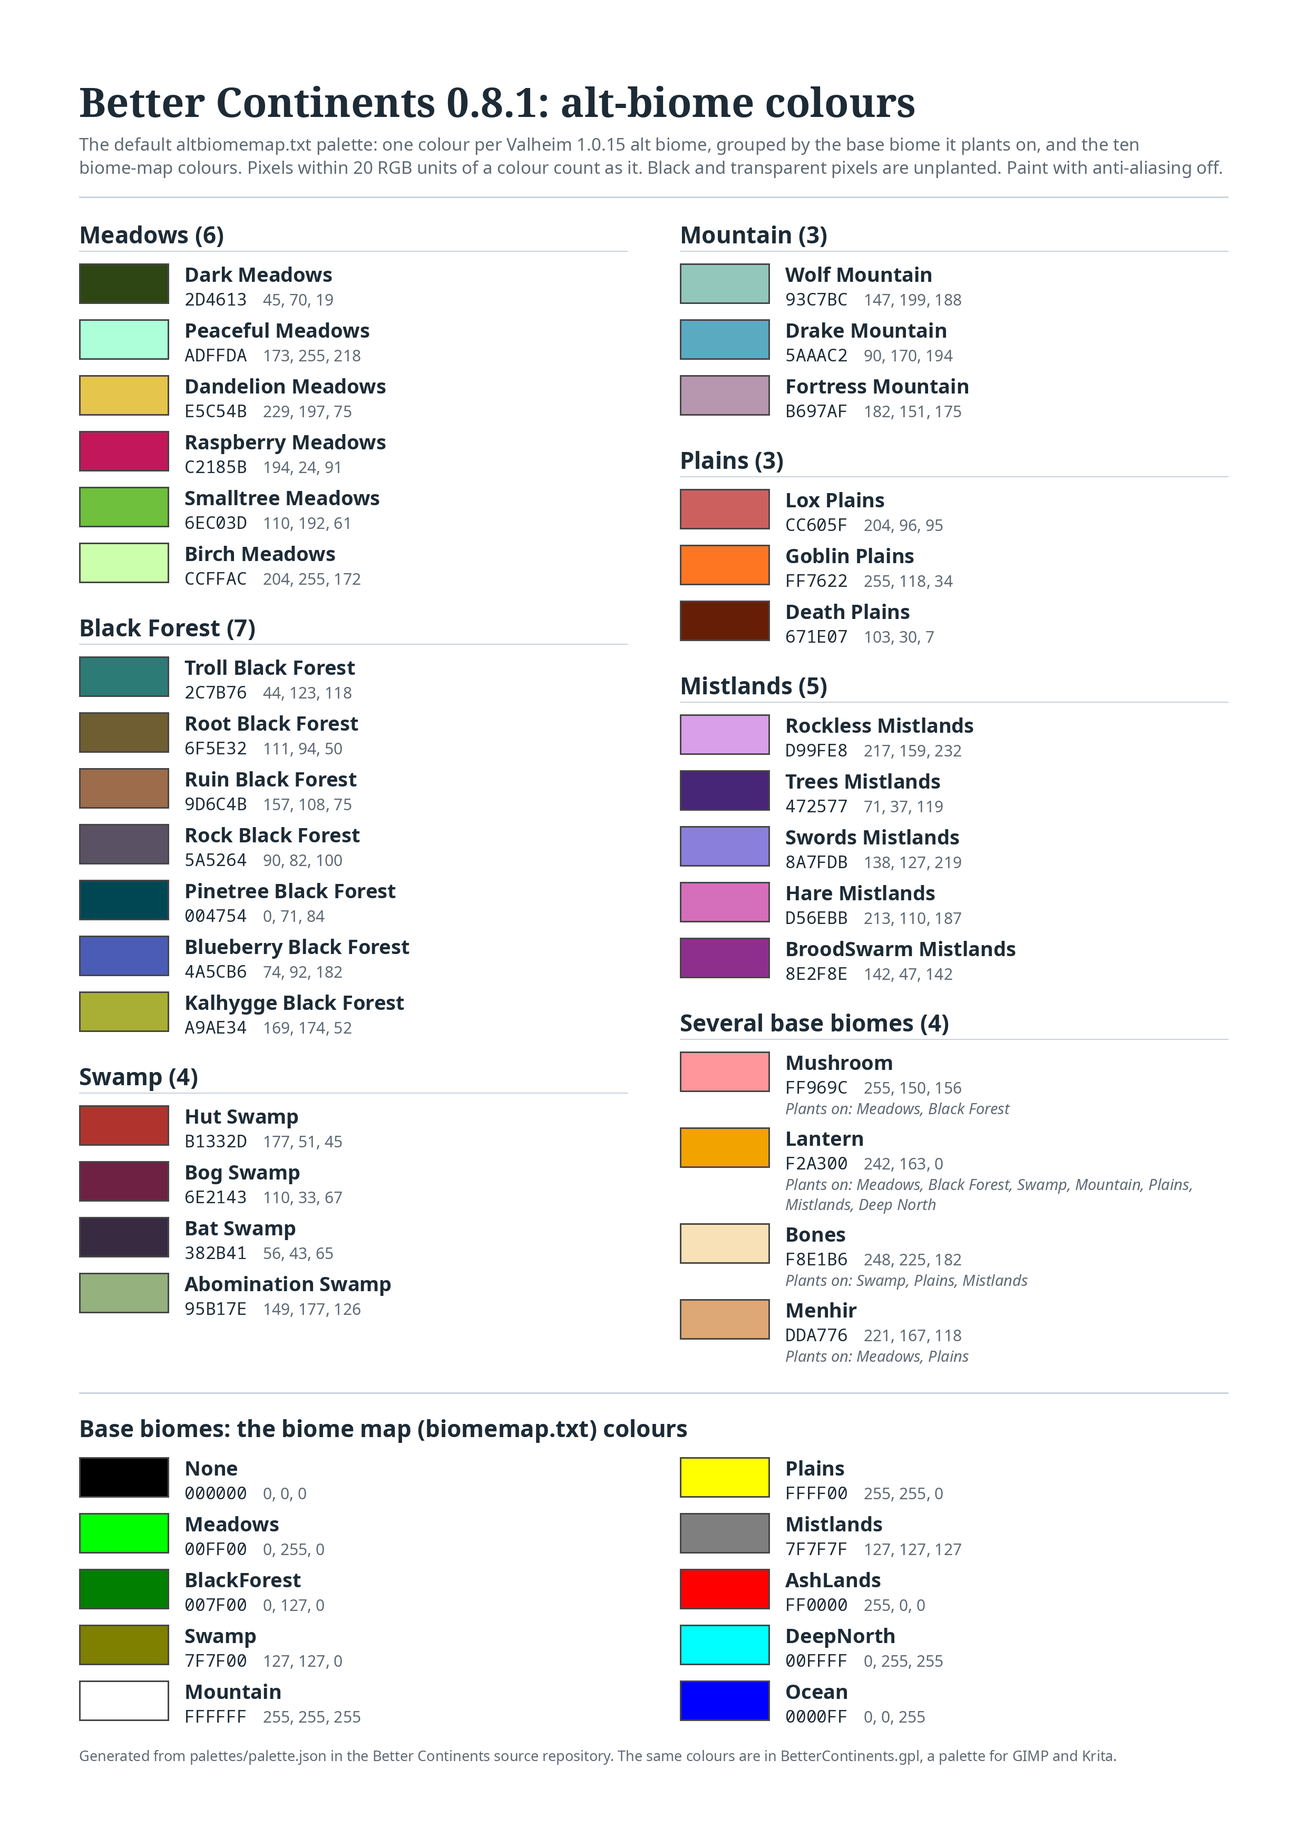
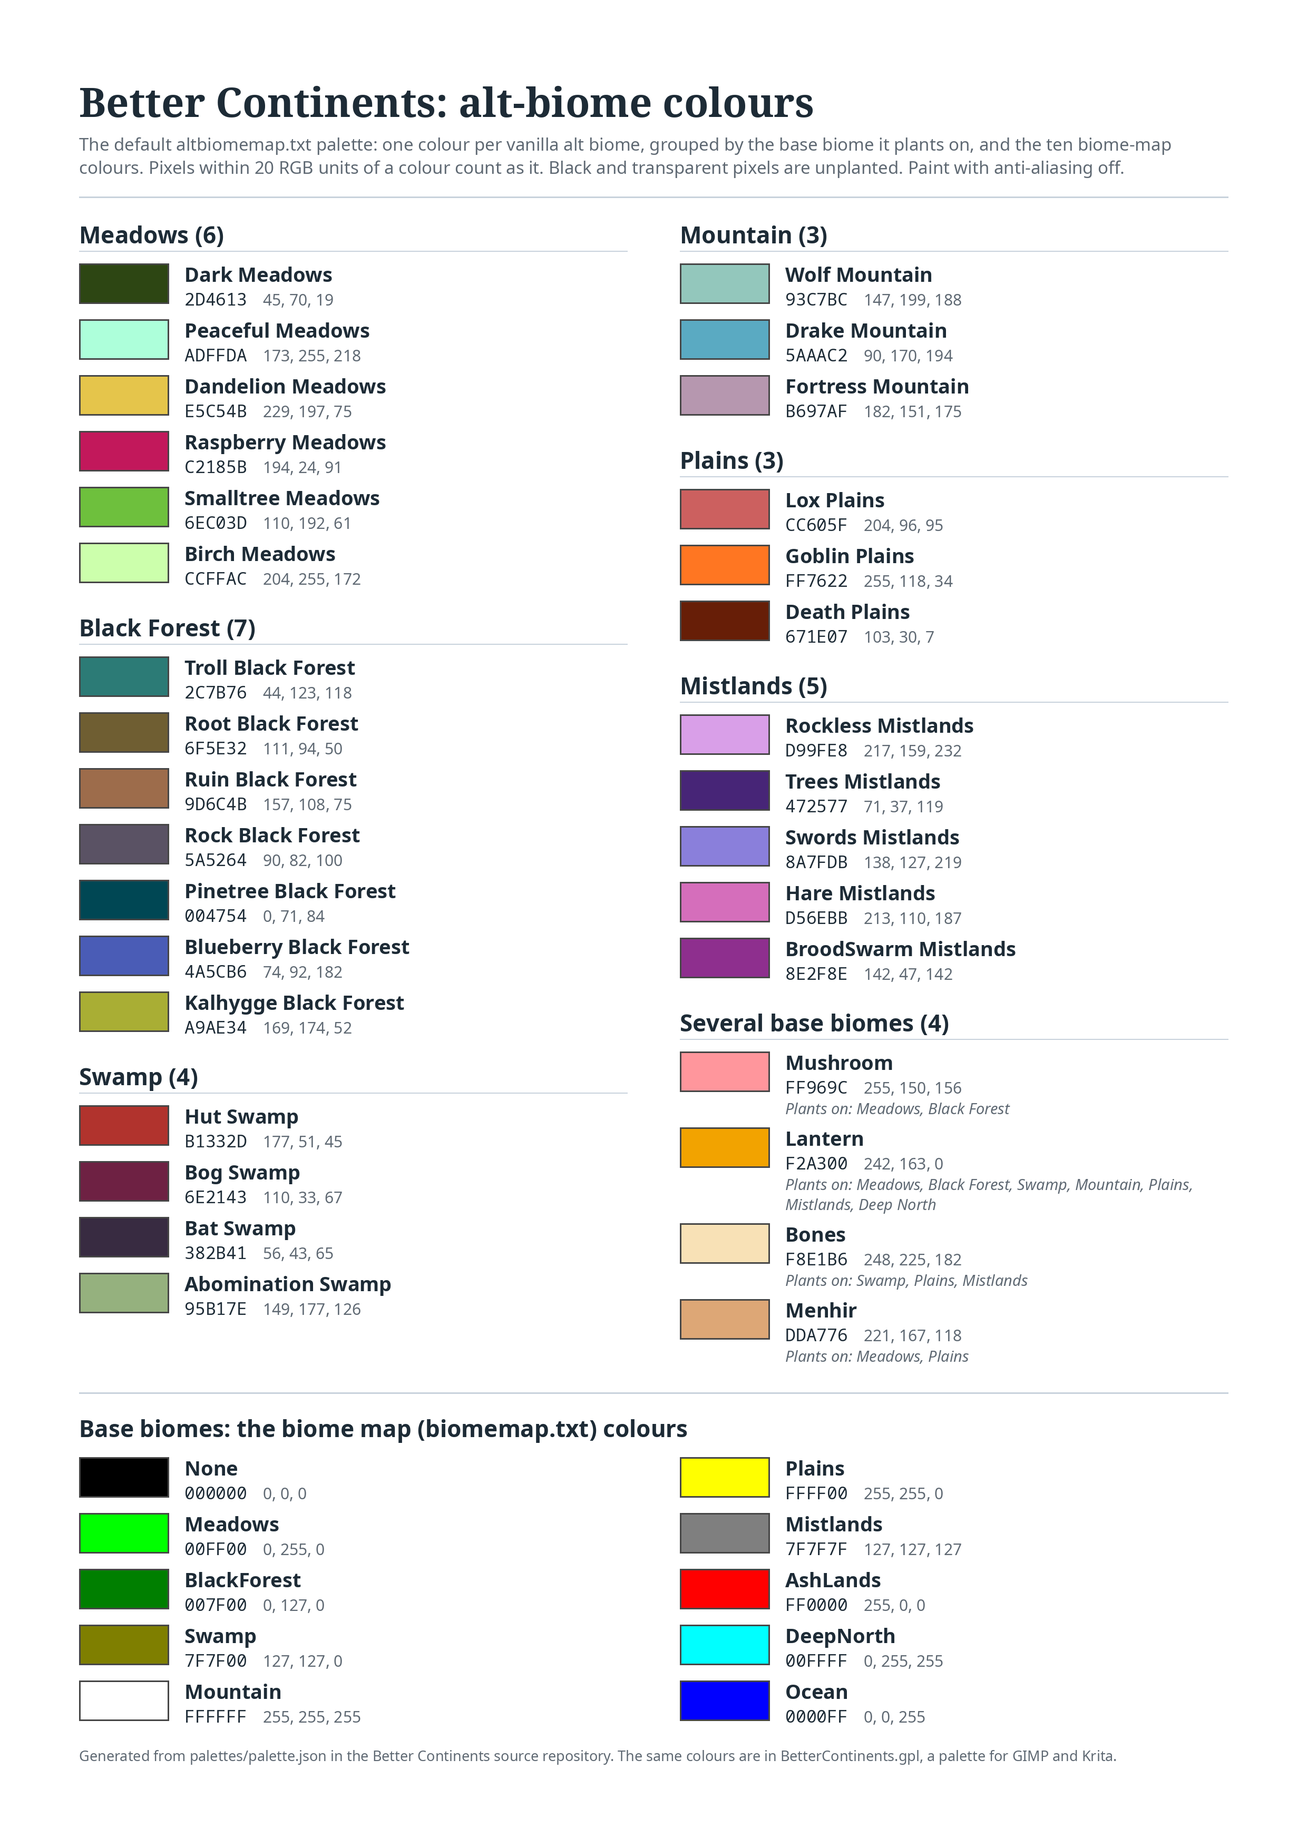
Better Continents 0.9.1: Valheim 1.0.16 rebuild, version-agnostic text
- Rebuilt against Valheim 1.0.16 (client build 25527674, dedicated server 25527701, network
  version 40) and re-verified: refcheck RESULT: OK on the 1.0.16 client and dedicated server
  assemblies, a 1.0.16 dedicated server boots with "Loading [Better Continents 0.9.1]" and no mod
  errors, and the alt-biome harness passes 266/266. Nothing Better Continents patches changed in
  1.0.16; the alt-biome list re-extracted from the 1.0.16 bundles is byte-identical to the 1.0.15
  extraction.
- The README, ALTBIOMES.md, config descriptions, console and report strings, the generated legend
  header, the printable colour chart and the harness messages no longer name a Valheim patch: they
  say "Valheim 1.0" or "vanilla". Versioned decompile and IL citations cite the vanilla member by
  name. History notes, the migration record and fixture names keep their versions.
- The three guides (Better Continents Guide, Export & Import, the AI-agent skill) are rebuilt as
  the "Valheim 1.0 / Better Continents 0.9.x" editions, so neither a game patch nor a mod patch
  release needs new guides; the READMEs describe them that way.

Changed region(s): [[0.3415, 0.0311, 0.9004, 0.0932]]

diff --git a/ImageMapAltBiome.cs b/ImageMapAltBiome.cs
@@ -1,4 +1,4 @@
-// Added by Wubarrk on 2026-09-22 for alt-biome planting (0.8.1).
+// Added by Wubarrk on 2026-09-22 for alt-biome planting (0.8.1), and on 2026-09-25 for version-agnostic wording (0.9.1).
 
 using System;
 using System.Collections.Generic;
@@ -182,7 +182,7 @@ internal class ImageMapAltBiome() : ImageMapBase()
       foreach (var entry in entries)
       {
         if (entry.Pattern.IndexOf('*') < 0 && !KnownVanillaNames.Contains(entry.Pattern))
-          BetterContinents.Log($"{Where()}: '{entry.Pattern}' is not a Valheim 1.0.15 alt biome name. That is fine if another mod adds it; it is checked when the world loads.");
+          BetterContinents.Log($"{Where()}: '{entry.Pattern}' is not a vanilla alt biome name. That is fine if another mod adds it; it is checked when the world loads.");
       }
 
       if (TryParsePin(valuePart, out var px, out var pz))
@@ -544,8 +544,8 @@ internal class ImageMapAltBiome() : ImageMapBase()
   private static string Inv(float v) => v.ToString("0.#", CultureInfo.InvariantCulture);
 
   #region Default palette
-  // One colour per Valheim 1.0.15 alt biome (AltBiomes_Erik.prefab, 32 entries), in the game's own list order,
-  // with the base biomes each one plants on in 1.0.15 (its m_biome). The colours keep every pair of alt-biome
+  // One colour per vanilla alt biome (AltBiomes_Erik.prefab, 32 entries), in the game's own list order,
+  // with the base biomes each one plants on (its m_biome). The colours keep every pair of alt-biome
   // colours, and every alt-biome colour and every base-biome colour of the default biome legend (black and
   // white included), more than 2 x ColorTolerance apart, so tolerant matching can never confuse two of them.
   public static readonly (string Name, string Hex, Heightmap.Biome Biomes)[] DefaultPalette =
@@ -634,7 +634,7 @@ internal class ImageMapAltBiome() : ImageMapBase()
       Line("# none: C030F0");
       Line("# Troll Black Forest: at 2750, -1210");
       Line("#");
-      Line("# Default palette, one colour per Valheim 1.0.15 alt biome (the comment is the land it plants on):");
+      Line("# Default palette, one colour per vanilla alt biome (the comment is the land it plants on):");
       int width = DefaultPalette.Max(p => p.Name.Length + 8);
       foreach (var (name, hex, biomes) in DefaultPalette)
         Line($"{name}: {hex}".PadRight(width) + " # " + BiomeList(biomes));

diff --git a/BetterContinents.cs b/BetterContinents.cs
@@ -1,4 +1,4 @@
-// Modified by Wubarrk on 2026-09-22 for Valheim 1.0.15 support (0.8.0) and alt-biome planting (0.8.1), and on 2026-09-24 for world export and import (0.9.0).
+// Modified by Wubarrk on 2026-09-22 for Valheim 1.0.15 support (0.8.0) and alt-biome planting (0.8.1), and on 2026-09-24 for world export and import (0.9.0), and on 2026-09-25 for version-agnostic wording (0.9.1).
 
 using System;
 using System.Collections;
@@ -419,7 +419,7 @@ public partial class BetterContinents : BaseUnityPlugin
                     .Description("Measure a region's average height as the mean over the whole region instead of vanilla's (lowest + highest) / 2 of its border. Helps maps whose biome paint runs out into the sea: the border is then under water and vanilla's measure sinks below the 30 m every alt biome requires")
                     .Default(false).Bind(out ConfigAltBiomeMeanHeight);
                 groupBuilder.AddValue("Fix Neighbour Check")
-                    .Description("Use a corrected version of vanilla's require/not-neighbour test (broken in 1.0.15; no vanilla alt biome uses it, modded ones may)")
+                    .Description("Use a corrected version of vanilla's require/not-neighbour test (broken in vanilla; no vanilla alt biome uses it, modded ones may)")
                     .Default(false).Bind(out ConfigAltBiomeFixNeighbourCheck);
                 groupBuilder.AddValue("Overrides")
                     .Description("Per alt biome overrides of the game's random placement: 'Name: key=value, key=value; Other Name: key=value'. A name may contain * wildcards ('*Mistlands'); '*' alone applies to all. An exact name wins over a wildcard pattern, and a pattern over '*', field by field. Keys: enabled, chance, min, max, mindist, minedge, maxedge, minheight, maxheight, ignorebounds. 'Fortress Mountain: enabled=false' keeps the game from placing Fortress Mountain at random; planted Fortress Mountain still works")

diff --git a/tools/altbiome-harness/Tests.VanillaFacts.cs b/tools/altbiome-harness/Tests.VanillaFacts.cs
@@ -1,4 +1,4 @@
-// Added by Wubarrk on 2026-09-22 for alt-biome planting (0.8.1).
+// Added by Wubarrk on 2026-09-22 for alt-biome planting (0.8.1), and on 2026-09-25 for version-agnostic wording (0.9.1).
 
 using System;
 using System.Collections.Generic;
@@ -115,8 +115,7 @@ internal static partial class Tests
     }
   }
 
-  // What the installed 1.0.15 builds actually do at world load, read from their IL (the per-type decompile in
-  // libs-Tools/Decompiled_1.0.15 shows an older body that read and wrote the cache).
+  // What the installed builds actually do at world load, read from their IL.
   private static void VanillaFacts()
   {
     var libs = Path.Combine(RepoRoot, "..", "libs-Tools", "1.0");
@@ -128,9 +127,9 @@ internal static partial class Tests
         continue;
       }
       var calls = CallsIn(dll, "AltBiomeWorldData", "VerifyBiomeData");
-      Note($"1.0.15 {side} AltBiomeWorldData.VerifyBiomeData calls: {string.Join(", ", calls)}");
+      Note($"installed {side} AltBiomeWorldData.VerifyBiomeData calls: {string.Join(", ", calls)}");
       Check(calls.SequenceEqual(new[] { "AltBiomeWorldData::RemoveCache", "AltBiomeWorldData::GenerateBiomePoints", "AltBiomeWorldData::GenerateSectors" }),
-        $"1.0.15 {side}: VerifyBiomeData deletes the biome cache and regenerates the grid on every load (never TryLoadCache or SaveCache)");
+        $"installed {side}: VerifyBiomeData deletes the biome cache and regenerates the grid on every load (never TryLoadCache or SaveCache)");
     }
     var loaded = PatchProcessor.GetOriginalInstructions(AccessTools.Method(typeof(AltBiomeWorldData), nameof(AltBiomeWorldData.VerifyBiomeData)));
     Check(loaded.Any(i => i.Calls(AccessTools.Method(typeof(AltBiomeWorldData), nameof(AltBiomeWorldData.RemoveCache), [typeof(string)])))

diff --git a/tools/altbiome-harness/Tests.cs b/tools/altbiome-harness/Tests.cs
@@ -1,4 +1,4 @@
-// Added by Wubarrk on 2026-09-22 for alt-biome planting (0.8.1), and on 2026-09-24 for world export and import (0.9.0).
+// Added by Wubarrk on 2026-09-22 for alt-biome planting (0.8.1), and on 2026-09-24 for world export and import (0.9.0), and on 2026-09-25 for version-agnostic wording (0.9.1).
 
 using System;
 using System.Collections;
@@ -52,7 +52,7 @@ internal static partial class Tests
     ServerAssignmentTest(a, alts);
     Section("agreement hashes");
     HashTests();
-    Section("what 1.0.15 itself does with the biome cache");
+    Section("what the installed game does with the biome cache");
     VanillaFacts();
     Section("biome cache fingerprint trailer");
     CacheTests();
@@ -322,7 +322,7 @@ internal static partial class Tests
     var alts = LoadAltBiomes();
     var gameNames = alts.Select(a => a.m_name).ToList();
     Check(palette.Length == 32 && palette.Select(p => p.Name).Distinct(StringComparer.Ordinal).Count() == 32, "32 palette entries, each alt biome once");
-    Check(palette.Select(p => p.Name).SequenceEqual(gameNames, StringComparer.Ordinal), "the palette covers exactly the 32 vanilla 1.0.15 alt biomes, in the game's order");
+    Check(palette.Select(p => p.Name).SequenceEqual(gameNames, StringComparer.Ordinal), "the palette covers exactly the 32 vanilla alt biomes, in the game's order");
     var biomeMismatch = palette.Where(p => alts.First(a => a.m_name == p.Name).m_biome != p.Biomes).Select(p => p.Name).ToList();
     Check(biomeMismatch.Count == 0, "each entry's base biomes equal the game's m_biome " + string.Join(", ", biomeMismatch));
 

diff --git a/BetterContinents.BiomeCachePatch.cs b/BetterContinents.BiomeCachePatch.cs
@@ -1,4 +1,4 @@
-// Added by Wubarrk on 2026-09-22 for alt-biome planting (0.8.1).
+// Added by Wubarrk on 2026-09-22 for alt-biome planting (0.8.1), and on 2026-09-25 for version-agnostic wording (0.9.1).
 
 using System;
 using System.IO;
@@ -17,9 +17,9 @@ public partial class BetterContinents
   // Continents settings file replaced, maps edited, a world copied in from another machine, a Better Continents
   // update. A stale grid means wrong terrain biomes, wrong alt biomes, and locations placed from another map's points.
   //
-  // Valheim 1.0.15 (client and dedicated server, read from their IL) no longer uses the cache at all: VerifyBiomeData
-  // is RemoveCache + GenerateBiomePoints + GenerateSectors, and nothing calls TryLoadCache or SaveCache. On 1.0.15 these
-  // two patches therefore never run. They stay as a guard for any game version that reads the cache again.
+  // Since 1.0.15 the game (client and dedicated server, read from their IL) no longer uses the cache at all: VerifyBiomeData
+  // is RemoveCache + GenerateBiomePoints + GenerateSectors, and nothing calls TryLoadCache or SaveCache. So these
+  // two patches never run. They stay as a guard for any game version that reads the cache again.
   //
   // Better Continents worlds get a fingerprint appended to the cache file - SHA-256 of the settings that shape the
   // grid, the seed, the grid geometry, and the Better Continents and game versions - and a cache whose fingerprint

diff --git a/BetterContinents.AltBiomeControlPatch.cs b/BetterContinents.AltBiomeControlPatch.cs
@@ -1,4 +1,4 @@
-// Added by Wubarrk on 2026-09-22 for alt-biome planting (0.8.1).
+// Added by Wubarrk on 2026-09-22 for alt-biome planting (0.8.1), and on 2026-09-25 for version-agnostic wording (0.9.1).
 
 using System;
 using System.Collections.Generic;
@@ -11,7 +11,7 @@ namespace BetterContinents;
 public partial class BetterContinents
 {
   // Harmony side of AltBiomeControl. Every target here is a static [HarmonyPatch] so refcheck verifies it
-  // against the real 1.0.15 assemblies (name, overload and parameter names). Each patch is inert unless
+  // against the installed game assemblies (name, overload and parameter names). Each patch is inert unless
   // Better Continents is enabled for the current world, apart from the GetBiomeSector grid clamp, which only
   // acts on a grid whose size is not vanilla's 2048 (Expand World Size resizes it).
   [HarmonyPatch(typeof(AltBiomeWorldData))]
@@ -83,7 +83,7 @@ public partial class BetterContinents
       return __exception;
     }
 
-    // Both `WorldGenerator.instance.GetSeed()` calls (IL_0005 and IL_00e6 in 1.0.15) become
+    // Both `WorldGenerator.instance.GetSeed()` calls in GenerateAltBiomes become
     // AltBiomeControl.PlacementSeed(instance): same stack shape, and the world seed unless a fixed
     // placement seed is set for a Better Continents world.
     [HarmonyTranspiler, HarmonyPatch(nameof(AltBiomeWorldData.GenerateAltBiomes))]

diff --git a/BetterContinents.AltBiomeControl.cs b/BetterContinents.AltBiomeControl.cs
@@ -1,4 +1,4 @@
-// Added by Wubarrk on 2026-09-22 for alt-biome planting (0.8.1).
+// Added by Wubarrk on 2026-09-22 for alt-biome planting (0.8.1), and on 2026-09-25 for version-agnostic wording (0.9.1).
 
 using System;
 using System.Collections;
@@ -29,7 +29,7 @@ public partial class BetterContinents
     public const int VanillaGridSize = 2048;
     public const float VanillaPixelSize = 12f;
     public const float VanillaSampleRadius = 10500f;
-    // AltBiomeWorldData.MapSpaceToWorldSpace(0) on an unmodified 1.0.15 grid: (0 - 1024) * 12 + 6.
+    // AltBiomeWorldData.MapSpaceToWorldSpace(0) on an unmodified vanilla grid: (0 - 1024) * 12 + 6.
     private const float VanillaGridOrigin = -12282f;
 
     public enum RebuildLevel
@@ -1488,7 +1488,7 @@ public partial class BetterContinents
       {
         RuntimeRebuild = false;
       }
-      // Not written to the biome cache: 1.0.15 deletes that file and regenerates on every load (VerifyBiomeData ->
+      // Not written to the biome cache: the game deletes that file and regenerates on every load (VerifyBiomeData ->
       // RemoveCache), so it would be 20 MB written for nothing. Should a later game version read the cache again,
       // the fingerprint trailer rejects the older file for these new settings.
       world.m_biomeData = fresh;

diff --git a/BetterContinents.AltBiomeReport.cs b/BetterContinents.AltBiomeReport.cs
@@ -1,4 +1,4 @@
-// Added by Wubarrk on 2026-09-22 for alt-biome planting (0.8.1).
+// Added by Wubarrk on 2026-09-22 for alt-biome planting (0.8.1), and on 2026-09-25 for version-agnostic wording (0.9.1).
 
 using System;
 using System.Collections.Generic;
@@ -326,7 +326,7 @@ public partial class BetterContinents
     }
 
     // The game's live alt-biome list with the default colours and the game's own rules; before a world loads,
-    // the Valheim 1.0.15 palette.
+    // the vanilla palette.
     public static List<string> Names(string filter)
     {
       var lines = new List<string>();
@@ -334,7 +334,7 @@ public partial class BetterContinents
       var all = AltBiomeList.m_altBiomes;
       if (all.Count == 0)
       {
-        lines.Add("The game's alt biome list is empty until a world is loaded. The Valheim 1.0.15 names and default colours:");
+        lines.Add("The game's alt biome list is empty until a world is loaded. The vanilla alt biome names and default colours:");
         foreach (var (name, hex, biomes) in ImageMapAltBiome.DefaultPalette)
           if (filter == "" || name.IndexOf(filter, StringComparison.OrdinalIgnoreCase) >= 0)
             lines.Add($"  {name}: {hex}  -  plants on {ImageMapAltBiome.BiomeList(biomes)}");

diff --git a/Patcher.cs b/Patcher.cs
@@ -1,4 +1,4 @@
-// Modified by Wubarrk on 2026-09-22 for Valheim 1.0.15 support (0.8.0) and alt-biome planting (0.8.1), and on 2026-09-24 for world export and import (0.9.0).
+// Modified by Wubarrk on 2026-09-22 for Valheim 1.0.15 support (0.8.0) and alt-biome planting (0.8.1), and on 2026-09-24 for world export and import (0.9.0), and on 2026-09-25 for version-agnostic wording (0.9.1).
 
 using System.Collections;
 using System.Reflection;
@@ -125,7 +125,7 @@ public partial class BetterContinents
   }
 
   // Loaded terrain keeps the grid (or none) it was built with: rebuild the zone heightmaps (distant LOD never has a
-  // grid) and let the grass read the biomes again, as the 0.7 code did before precision was switched off. In 1.0.15
+  // grid) and let the grass read the biomes again, as the 0.7 code did before precision was switched off. In Valheim 1.0
   // that is Heightmap.s_heightmaps, a delayed Poke (Regenerate in LateUpdate, like GameUtils.ResetZones) and
   // ClutterSystem.ClearAll. Only in a loaded world: at world load and in the main menu there is nothing to redo.
   private static void RegenerateLoadedTerrain()

diff --git a/DebugUtils.AltBiomes.cs b/DebugUtils.AltBiomes.cs
@@ -1,4 +1,4 @@
-// Added by Wubarrk on 2026-09-22 for alt-biome planting (0.8.1).
+// Added by Wubarrk on 2026-09-22 for alt-biome planting (0.8.1), and on 2026-09-25 for version-agnostic wording (0.9.1).
 
 using System;
 using System.Collections.Generic;
@@ -146,7 +146,7 @@ public partial class DebugUtils
                 defaultValue: false,
                 setter: SetAltBiomeValue<bool>((s, v) => s.MeanSectorHeight = v, AltBiomeControl.RebuildLevel.Assignment),
                 getter: () => BetterContinents.Settings.EffectiveAltBiomes.MeanSectorHeight);
-            ab.AddValue("neighbourfix", "Fix neighbour check", "Use a corrected require/not-neighbour test (vanilla's is broken in 1.0.15)",
+            ab.AddValue("neighbourfix", "Fix neighbour check", "Use a corrected require/not-neighbour test (vanilla's is broken)",
                 defaultValue: false,
                 setter: SetAltBiomeValue<bool>((s, v) => s.FixNeighbourCheck = v, AltBiomeControl.RebuildLevel.Assignment),
                 getter: () => BetterContinents.Settings.EffectiveAltBiomes.FixNeighbourCheck);

diff --git a/tools/altbiome-harness/Tests.Fixes.cs b/tools/altbiome-harness/Tests.Fixes.cs
@@ -1,4 +1,4 @@
-// Added by Wubarrk on 2026-09-22 for alt-biome planting (0.8.1).
+// Added by Wubarrk on 2026-09-22 for alt-biome planting (0.8.1), and on 2026-09-25 for version-agnostic wording (0.9.1).
 
 using System;
 using System.Collections.Generic;
@@ -214,7 +214,7 @@ internal static partial class Tests
     {
       var method = AccessTools.Method(typeof(EnvMan), name);
       var original = PatchProcessor.GetOriginalInstructions(method);
-      Check(original.Count(i => i.Calls(vanilla)) == 1, $"EnvMan.{name} (1.0.15 IL): one IsDeepnorth call");
+      Check(original.Count(i => i.Calls(vanilla)) == 1, $"EnvMan.{name} (installed IL): one IsDeepnorth call");
       int oi = original.FindIndex(i => i.Calls(vanilla));
       Check(original[oi - 1].LoadsField(fy) && original[oi - 2].opcode == local && original[oi - 3].LoadsField(fx) && original[oi - 4].opcode == local,
         $"EnvMan.{name}: it is IsDeepnorth(position.x, position.y) with position in {local} (matches the decompile)");

diff --git a/BetterContinents.EnvManPatch.cs b/BetterContinents.EnvManPatch.cs
@@ -1,4 +1,4 @@
-// Added by Wubarrk on 2026-09-22 for alt-biome planting (0.8.1).
+// Added by Wubarrk on 2026-09-22 for alt-biome planting (0.8.1), and on 2026-09-25 for version-agnostic wording (0.9.1).
 
 using System.Collections.Generic;
 using System.Reflection;
@@ -13,8 +13,7 @@ public partial class BetterContinents
   // Deep North weather follows the biome map.
   //
   // Vanilla EnvMan asks WorldGenerator.IsDeepnorth with the camera's HEIGHT as the second coordinate, in both
-  // places it decides Deep North weather. 1.0.15: EnvMan.UpdateEnvironment IL_006f and EnvMan.GetBiome IL_0059
-  // (libs-Tools/1.0/DECOMPILED/assembly_valheim.decompiled.cs:96367-96368 and :96455-96456):
+  // places it decides Deep North weather, EnvMan.UpdateEnvironment and EnvMan.GetBiome:
   //
   //     bool flag  = WorldGenerator.IsAshlands(position.x, position.z);
   //     bool flag2 = WorldGenerator.IsDeepnorth(position.x, position.y);     <- y is the camera height
